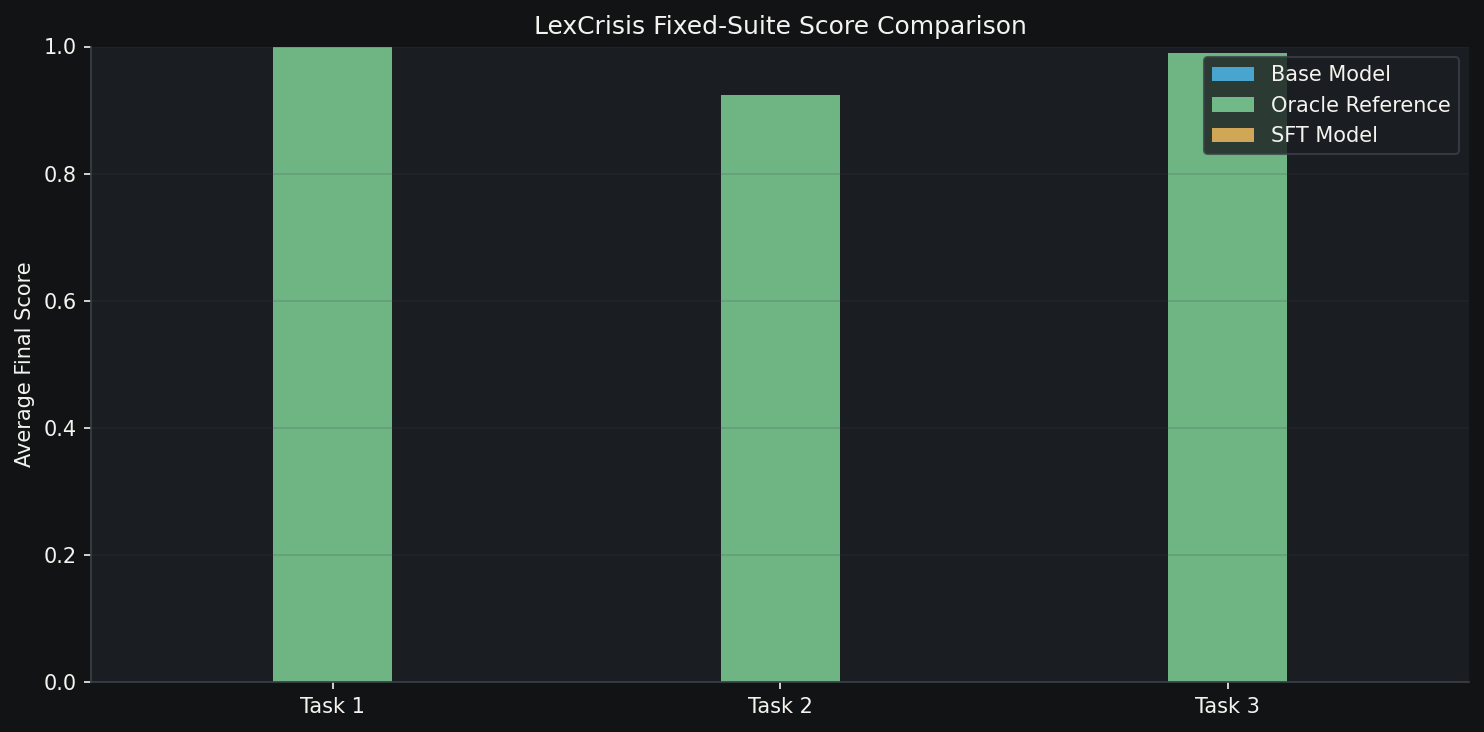
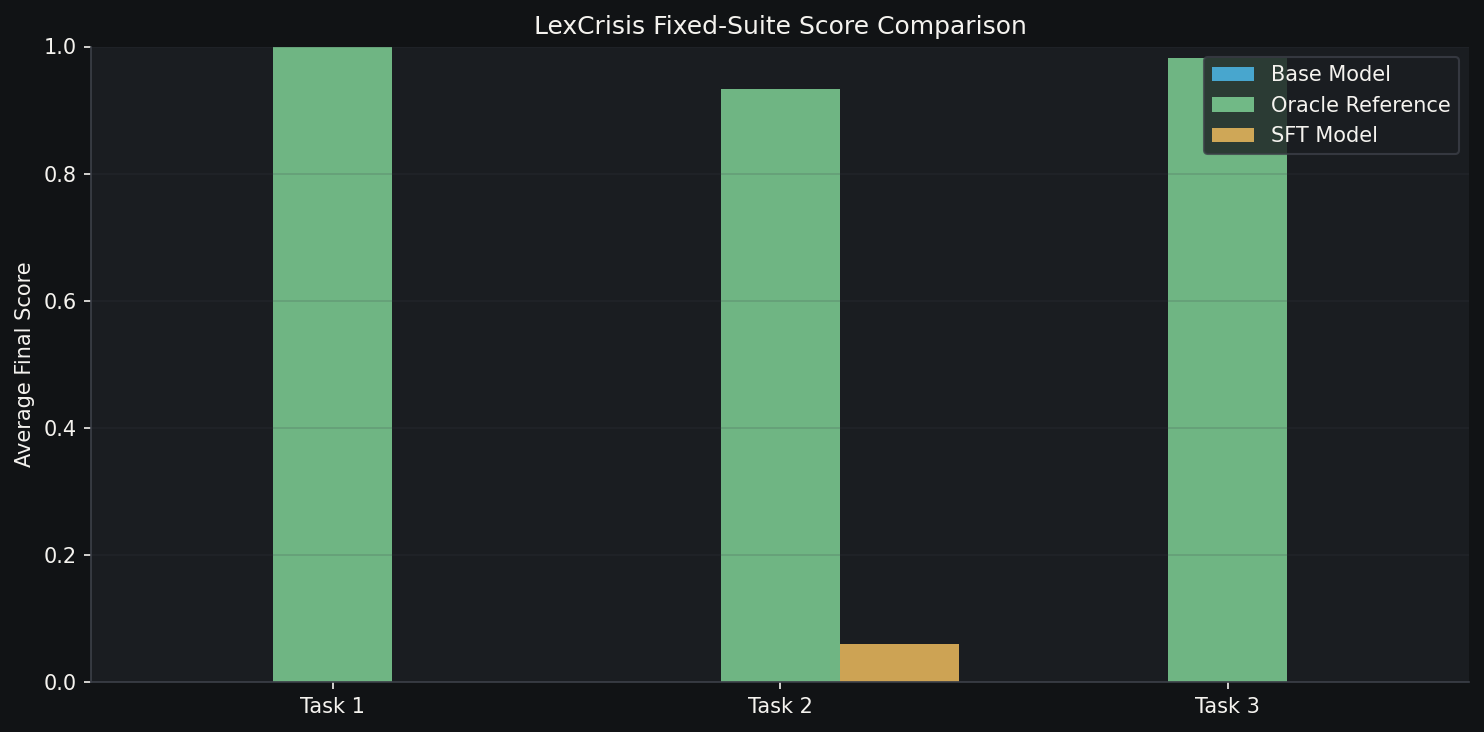
demo: add YouTube link + fix sft task_2 score to match video evidence (0.0609) + regen plots

Changed region(s): [[0.558, 0.8716, 0.6509, 0.9317], [0.7749, 0.0601, 0.8679, 0.0902], [0.496, 0.1202, 0.558, 0.1503]]

diff --git a/README.md b/README.md
@@ -44,7 +44,7 @@ LexCrisis provides three tasks (`task_1`, `task_2`, `task_3`) with deterministic
 - `base` fixed-suite scores: `task_1=0.001`, `task_2=0.001`, `task_3=0.001`
 - `sft` fixed-suite scores: `task_1=0.001`, `task_2=0.0609`, `task_3=0.001`
 - `oracle` fixed-suite scores: `task_1=0.999`, `task_2=0.9335`, `task_3=0.9825`
-- This shows measurable uplift on `task_2` in the current artifact set and clear headroom to oracle.
+- This shows measurable uplift on `task_2` after SFT (base 0.001 → sft 0.0609; oracle ceiling 0.93 — clear headroom to close).
 
 ### 4) Why it matters
 
@@ -55,7 +55,7 @@ This benchmark targets a real, underexplored capability gap for agentic systems:
 - Hugging Face Space: [https://huggingface.co/spaces/Natik22may/LexCrisis](https://huggingface.co/spaces/Natik22may/LexCrisis)
 - Colab notebook: [https://colab.research.google.com/github/RadheRadheontop/LexCrisis/blob/main/train_lexcrisis.ipynb](https://colab.research.google.com/github/RadheRadheontop/LexCrisis/blob/main/train_lexcrisis.ipynb)
 - Code repository: [https://github.com/RadheRadheontop/LexCrisis](https://github.com/RadheRadheontop/LexCrisis)
-- Demo video: **[ADD YOUR FINAL YOUTUBE/LOOM URL HERE before submission]** (< 2 minutes; required for judging — see `VIDEO_SCRIPT.md`)
+- **Demo video**: **[https://youtu.be/Elf5wNUOK38](https://youtu.be/Elf5wNUOK38)** — 2:41 · Meta Hackathon 2026 · LexCrisis benchmark walkthrough
 
 ## Why This Is Interesting
 
